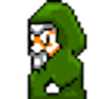
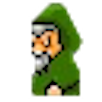
design changes

diff --git a/Player.py b/Player.py
@@ -33,7 +33,7 @@ class Player():
 		self.physics()
 		self.rect.right = 0
 		self.rect.bottom = 0
-		self.rect = self.rect.move(self.movementUnit.x - self.global_move, self.movementUnit.y - 6.5)
+		self.rect = self.rect.move(self.movementUnit.x - self.global_move, self.movementUnit.y+0.5)
 		self.screen.blit(self.design, self.rect)
 		self.in_move = False
 
